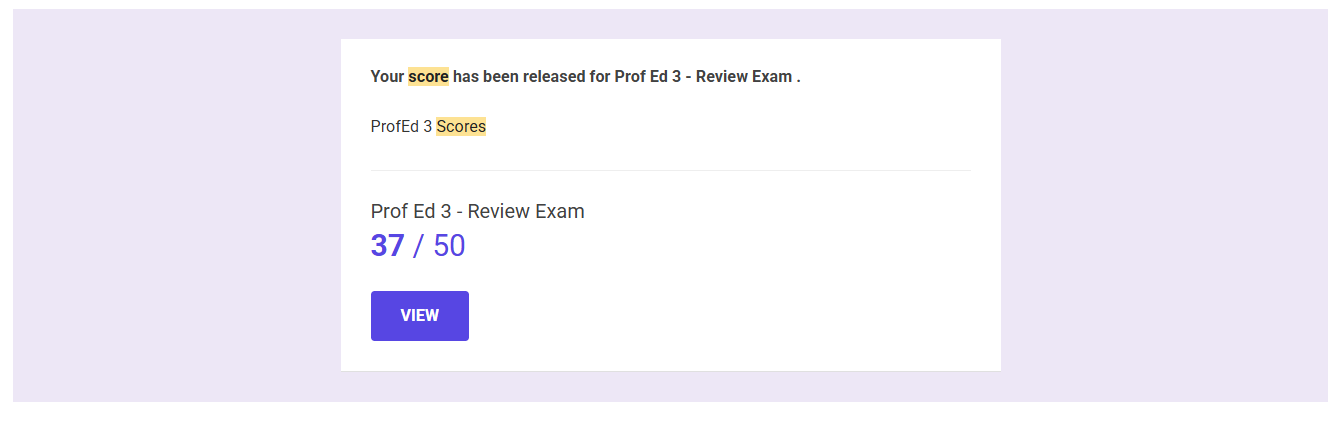
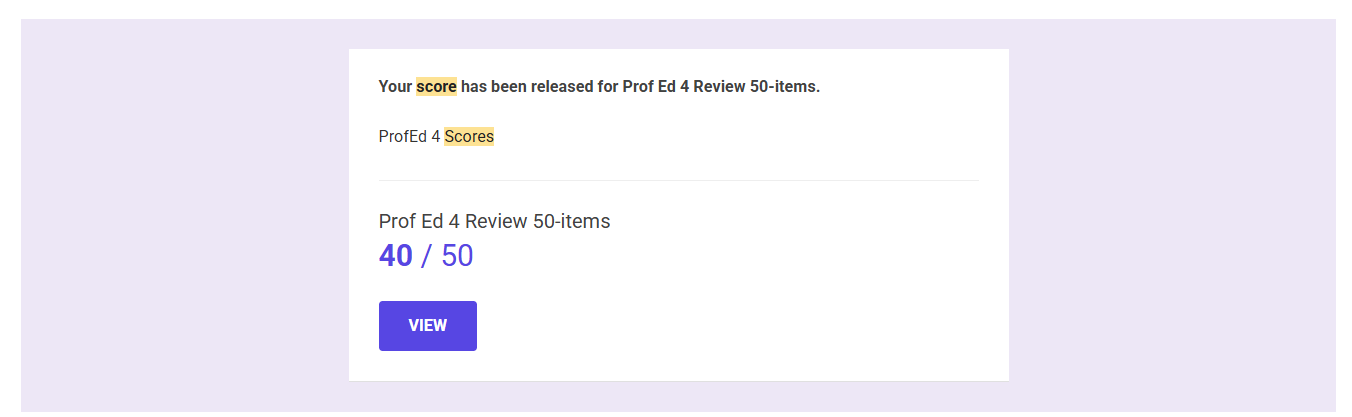
Update reflections and assessment evidence

diff --git a/index.html b/index.html
@@ -23,6 +23,7 @@
   <link rel="stylesheet" href="css/hero-portrait.css">
   <link rel="stylesheet" href="css/profile-portrait.css">
   <link rel="stylesheet" href="css/reflection-status.css">
+  <link rel="stylesheet" href="css/reflection-content.css">
   <link rel="stylesheet" href="css/growth-reflection.css">
   <link rel="stylesheet" href="css/growth-reflection-overrides.css">
   <link rel="stylesheet" href="css/reflection-modal.css">
@@ -92,28 +93,30 @@
       <div class="results-subheading"><p class="label coral-label">Summative assessment</p><h3>Summative test evidence</h3></div>
       <div class="results-row summative-results-row" aria-label="Summative test evidence row">
         <figure class="row-evidence-card reveal"><button class="row-image-button" type="button" data-result-image="img/summativetest/summativetest1.jpg" data-result-title="Summative Test"><img src="img/summativetest/summativetest1.jpg" alt="Summative test evidence for Cindy Pearl E. Gonzaga"></button><figcaption><span>Summative test 01</span><h3>Summative Test</h3><p>Score: <strong contenteditable="true">60</strong></p></figcaption></figure>
+        <figure class="row-evidence-card reveal"><button class="row-image-button" type="button" data-result-image="img/summativetest/midterm-exam-result.png" data-result-title="Midterm Exam Result"><img src="img/summativetest/midterm-exam-result.png" alt="Cindy Pearl E. Gonzaga midterm examination result"></button><figcaption><span>Midterm exam 01</span><h3>Midterm Exam Result</h3><p>Score: <strong contenteditable="true">36/60</strong></p></figcaption></figure>
       </div>
       <div class="results-subheading"><p class="label coral-label">Online assessments</p><h3>Online quiz evidence</h3></div>
       <div class="results-row online-results-row" aria-label="Online quiz evidence row">
         <figure class="row-evidence-card reveal"><button class="row-image-button" type="button" data-result-image="img/onlinequiz/onlinequiz1.png" data-result-title="Prof Ed 1 Long Quiz"><img src="img/onlinequiz/onlinequiz1.png" alt="Prof Ed 1 Long Quiz result screenshot"></button><figcaption><span>Online quiz 01</span><h3>Prof Ed 1 Long Quiz</h3><p>Score: <strong contenteditable="true">43/50</strong></p></figcaption></figure>
         <figure class="row-evidence-card reveal"><button class="row-image-button" type="button" data-result-image="img/onlinequiz/onlinequiz2.png" data-result-title="Prof Ed 2 The Teaching Profession"><img src="img/onlinequiz/onlinequiz2.png" alt="Prof Ed 2 The Teaching Profession result screenshot"></button><figcaption><span>Online quiz 02</span><h3>Prof Ed 2 The Teaching Profession</h3><p>Score: <strong contenteditable="true">40/50</strong></p></figcaption></figure>
-        <figure class="row-evidence-card reveal"><button class="row-image-button" type="button" data-result-image="img/onlinequiz/onlinequiz3.png" data-result-title="Prof Ed 1 Long Quiz"><img src="img/onlinequiz/onlinequiz3.png" alt="Prof Ed 1 Long Quiz result screenshot duplicate"></button><figcaption><span>Online quiz 03</span><h3>Prof Ed 1 Long Quiz</h3><p>Score: <strong contenteditable="true">43/50</strong></p></figcaption></figure>
+        <figure class="row-evidence-card reveal"><button class="row-image-button" type="button" data-result-image="img/onlinequiz/onlinequiz3.png" data-result-title="Prof Ed 3 Review Exam"><img src="img/onlinequiz/onlinequiz3.png" alt="Prof Ed 3 Review Exam result screenshot"></button><figcaption><span>Online quiz 03</span><h3>Prof Ed 3 Review Exam</h3><p>Score: <strong contenteditable="true">37/50</strong></p></figcaption></figure>
         <figure class="row-evidence-card reveal"><button class="row-image-button" type="button" data-result-image="img/onlinequiz/onlinequiz4.png" data-result-title="Prof Ed 4 Review 50-items"><img src="img/onlinequiz/onlinequiz4.png" alt="Prof Ed 4 Review 50-items result screenshot"></button><figcaption><span>Online quiz 04</span><h3>Prof Ed 4 Review 50-items</h3><p>Score: <strong contenteditable="true">40/50</strong></p></figcaption></figure>
-        <figure class="row-evidence-card reveal"><button class="row-image-button" type="button" data-result-image="img/onlinequiz/onlinequiz5.png" data-result-title="Prof Ed 3 Review Exam"><img src="img/onlinequiz/onlinequiz5.png" alt="Prof Ed 3 Review Exam result screenshot"></button><figcaption><span>Online quiz 05</span><h3>Prof Ed 3 Review Exam</h3><p>Score: <strong contenteditable="true">37/50</strong></p></figcaption></figure>
+        <figure class="row-evidence-card reveal"><button class="row-image-button" type="button" data-result-image="img/onlinequiz/onlinequiz5.png" data-result-title="Prof Ed 5 Facilitating Learner-Centered Teaching"><img src="img/onlinequiz/onlinequiz5.png" alt="Prof Ed 5 Facilitating Learner-Centered Teaching result screenshot"></button><figcaption><span>Online quiz 05</span><h3>Prof Ed 5 Facilitating Learner-Centered Teaching</h3><p>Score: <strong contenteditable="true">40/50</strong></p></figcaption></figure>
       </div>
     </section>
 
-    <section class="section-shell reflection-section" id="midterm"><div class="section-intro split-intro reveal"><div><p class="eyebrow">04 / pause and notice</p><h2>Midterm<br><em>reflection</em></h2></div><p class="section-subtitle">Understanding my progress during the first half of the semester.</p></div><div class="reflection-pending reveal"><span class="pending-mark">—</span><div><p class="label">Status update</p><h3>Midterm reflection not yet available</h3><p>This space will be completed after the midterm assessments and personal reflection are finished.</p></div></div></section>
+    <section class="section-shell reflection-section" id="midterm"><div class="section-intro split-intro reveal"><div><p class="eyebrow">04 / pause and notice</p><h2>Midterm<br><em>reflection</em></h2></div><p class="section-subtitle">Understanding my progress during the first half of the semester.</p></div><article class="midterm-written reveal"><p>As I reach the middle of my learning journey, I find myself looking back at how much I have learned and how far I have come. This experience has allowed me to understand not only the lessons discussed in class but also myself as a learner. I have discovered that learning is not always easy, and it does not always happen the way I expect. There are moments of confusion, challenges, and uncertainty, but there are also moments of realization and small achievements that make every effort worthwhile.</p><p>Throughout this journey, I have explored different learning strategies and discovered which approaches help me understand and remember information better. I realized that everyone has their own way of learning, and knowing what works best for me has helped me become more aware and responsible for my own learning. My experiences and assessment results have also given me an opportunity to recognize my strengths and identify the areas where I still need improvement.</p><p>One important lesson I have learned is that I should not measure my progress only through scores or achievements. While these results are important, they do not completely define my ability to learn. What matters more is my willingness to understand my mistakes, accept feedback, and make an effort to improve. I have learned to be more patient with myself because growth takes time, and every step forward, no matter how small, is still progress.</p><p>As a student and future educator, this journey has also reminded me of the importance of understanding individual differences in learning. It made me realize that becoming a good teacher begins with becoming a better learner. I want to create a learning environment where students feel valued, encouraged, and confident enough to express their ideas without fear of making mistakes.</p><p>At this point in my journey, I know that I still have many things to discover and improve. However, I am proud of the progress I have made so far. I may not be where I want to be yet, but I am no longer where I started. I will continue to learn with curiosity, face challenges with determination, and appreciate every opportunity that helps me grow.</p><p><strong>This midterm reflection is not just about looking back at what I have learned; it is also about recognizing the person I am becoming. I am still a work in progress, and I choose to keep growing, one lesson, one experience, and one small step at a time.</strong></p></article></section>
 
     <section class="section-shell reflection-section final-section" id="final"><div class="section-intro split-intro reveal"><div><p class="eyebrow">05 / look back, look ahead</p><h2>Final Term<br><em>Reflection</em></h2></div><p class="section-subtitle">Growth, progress, and readiness for the teaching profession.</p></div><div class="reflection-pending reveal"><span class="pending-mark">—</span><div><p class="label">Status update</p><h3>Final-term reflection not yet available</h3><p>This space will be completed after the final-term assessments and personal reflection are finished.</p></div></div></section>
 
     <section class="section-shell goals-section"><div class="progress-summary growth-layout"><div class="summary-lead"><p class="eyebrow">06 / keep becoming</p><h2>Small steps,<br><em>steady growth.</em></h2><p>I will keep showing up, keep learning, and keep becoming—not all at once, but one small step at a time.</p></div><aside class="growth-reflection"><div class="reflection-preview"><p>Looking back on my learning journey, I realized that growth does not always happen in big and noticeable ways. Sometimes, it happens through small steps, quiet realizations, mistakes, and lessons that help us become better versions of ourselves.</p><p>Throughout this experience, I discovered strategies that helped me understand lessons better and recognize the ways I learn best. I also learned that challenges and mistakes are not signs of failure but opportunities to grow.</p></div><details><summary>View all reflection</summary><div class="reflection-full"><p>Looking back on my learning journey, I realized that growth does not always happen in big and noticeable ways. Sometimes, it happens through small steps, quiet realizations, mistakes, and lessons that help us become better versions of ourselves. This journey has taught me that learning is not about being perfect or knowing everything, but about being willing to learn, improve, and try again.</p><p>Throughout this experience, I discovered strategies that helped me understand lessons better and recognize the ways I learn best. I also learned that challenges and mistakes are not signs of failure but opportunities to grow. Every experience, whether successful or difficult, has taught me something valuable about myself as a learner.</p><p>More than the knowledge I gained, I am grateful for the patience, discipline, and confidence I continue to develop. I know that I still have so much to learn, and there will be moments when I feel uncertain or struggle to understand. However, I want to remind myself that progress takes time, and every small effort matters.</p><p>As I continue my journey as a student and future educator, I carry with me the belief that learning is a continuous process. I may not have everything figured out today, but I am proud of how far I have come and hopeful for how far I can go. I will continue to approach every lesson with curiosity, every challenge with courage, and every opportunity with an open heart.</p><p><strong>This is not the end of my learning journey. It is another beginning.</strong> I will keep showing up, keep learning, and keep becoming—not all at once, but one small step at a time. Because in the end, meaningful growth is not about how quickly I reach my destination, but about who I become along the way.</p></div></details></aside></div></section>
+    <section class="section-shell let-plan-section"><div class="section-intro reveal"><p class="eyebrow">07 / looking ahead</p><h2>My growth plan</h2><p class="section-subtitle">Turning my learning experiences into meaningful preparation for my future teaching career and the Licensure Examination for Teachers.</p></div><div class="let-plan-grid"><article><span>What I do well</span><ul><li>Open to new learning experiences</li><li>Willingness to accept corrections</li><li>Understanding Social Studies concepts</li><li>Passion for teaching and learning</li></ul></article><article><span>What I need to develop</span><ul><li>Better time management</li><li>Stronger mastery of subject matter</li><li>Confidence in answering challenging questions</li><li>More consistent study habits</li></ul></article><article><span>My action plan</span><ul><li>Follow a regular study routine</li><li>Read and review LET materials</li><li>Answer practice examinations</li><li>Evaluate my progress regularly</li></ul></article></div><p class="let-commitment">I may still have a lot to learn, but every effort I make today brings me closer to the teacher I aspire to become.</p></section>
   </main>
 
   <footer class="site-footer"><div><a class="brand footer-brand" href="#home"><span class="brand-mark">CP</span><span>Learning<br><em>journey</em></span></a><p>Learning, reflecting, and growing toward the teaching profession.</p></div><div class="footer-details"><p><strong>ISED 2</strong><br>Seminar in Professional Education</p><p><strong id="footer-name">Cindy Pearl E. Gonzaga</strong><br>Bukidnon State University · 2026/2027</p></div><div class="footer-links"><a href="#about">About</a><a href="#strategies">Strategies</a><a href="#results">Results</a><a href="#midterm">Reflections</a></div></footer>
   <button class="back-top" id="back-top" type="button" aria-label="Back to top">↑</button>
   <div class="modal" id="evidence-modal" aria-hidden="true" role="dialog" aria-modal="true" aria-labelledby="modal-title"><div class="modal-backdrop" data-close-modal onclick="document.getElementById('evidence-modal').classList.remove('open');document.getElementById('evidence-modal').setAttribute('aria-hidden','true')"></div><div class="modal-card"><button class="modal-close" data-close-modal onclick="document.getElementById('evidence-modal').classList.remove('open');document.getElementById('evidence-modal').setAttribute('aria-hidden','true')" aria-label="Close evidence viewer">×</button><p class="label">Evidence viewer</p><h2 id="modal-title">Assessment evidence</h2><div class="modal-preview" id="modal-preview"></div><p id="modal-score"></p></div></div>
   <div class="modal reflection-modal" id="reflection-modal" aria-hidden="true" role="dialog" aria-modal="true" aria-labelledby="reflection-modal-title"><div class="modal-backdrop" data-reflection-close></div><div class="modal-card reflection-modal-card"><button class="modal-close" data-reflection-close aria-label="Close reflection viewer">×</button><p class="label coral-label">Learning journey</p><h2 id="reflection-modal-title">My reflection</h2><div id="reflection-modal-content"></div></div></div>
-  <script src="js/data.js"></script><script src="js/navigation.js"></script><script src="js/assessments.js"></script><script src="js/strategy-carousel.js"></script><script src="js/animations.js"></script><script src="js/main.js"></script><script src="js/results-gallery.js"></script><script src="js/growth-reflection.js"></script>
+  <script src="js/data.js"></script><script src="js/navigation.js"></script><script src="js/assessments.js"></script><script src="js/strategy-carousel.js"></script><script src="js/animations.js"></script><script src="js/main.js"></script><script src="js/results-gallery.js"></script><script src="js/growth-reflection.js"></script><script src="js/section-order.js"></script>
 </body>
 </html>

diff --git a/css/reflection-content.css b/css/reflection-content.css
@@ -1,0 +1,1 @@
+.midterm-written{max-width:920px;background:#fffdf5;border-left:4px solid var(--pink);border-radius:0 20px 20px 0;padding:38px 44px;box-shadow:var(--shadow);color:var(--muted);font-size:15px;line-height:1.75}.midterm-written p{margin:0 0 20px}.midterm-written p:last-child{margin-bottom:0}.let-plan-section{background:var(--peach);max-width:none;padding-left:calc((100% - 1060px)/2);padding-right:calc((100% - 1060px)/2)}.let-plan-grid{display:grid;grid-template-columns:repeat(3,1fr);gap:18px}.let-plan-grid article{background:var(--paper);padding:24px;border-radius:16px;border-top:4px solid var(--pink)}.let-plan-grid article:nth-child(2){border-top-color:#a45e5b}.let-plan-grid article:nth-child(3){border-top-color:#9eb8a1}.let-plan-grid span{font-family:'Plus Jakarta Sans';font-weight:800;font-size:17px}.let-plan-grid ul{list-style:none;padding:0;margin:18px 0 0}.let-plan-grid li{border-top:1px solid var(--line);padding:9px 0;font-size:13px;color:var(--muted)}.let-plan-grid li:before{content:'•';color:#a45e5b;margin-right:8px}.let-commitment{margin:28px 0 0;padding:20px 24px;background:#315b4a;color:var(--cream);border-radius:12px;text-align:center;font-family:'Plus Jakarta Sans';font-weight:700}@media(max-width:768px){.midterm-written{padding:28px 25px;font-size:14px}.let-plan-section{padding-left:5vw;padding-right:5vw}.let-plan-grid{grid-template-columns:1fr}}

diff --git a/js/section-order.js b/js/section-order.js
@@ -1,0 +1,7 @@
+const growthSection = document.querySelector('.goals-section');
+const letPlanSection = document.querySelector('.let-plan-section');
+if (growthSection && letPlanSection) {
+  letPlanSection.querySelector('.eyebrow').textContent = '06 / looking ahead';
+  growthSection.querySelector('.eyebrow').textContent = '07 / keep becoming';
+  growthSection.parentElement.insertBefore(letPlanSection, growthSection);
+}
